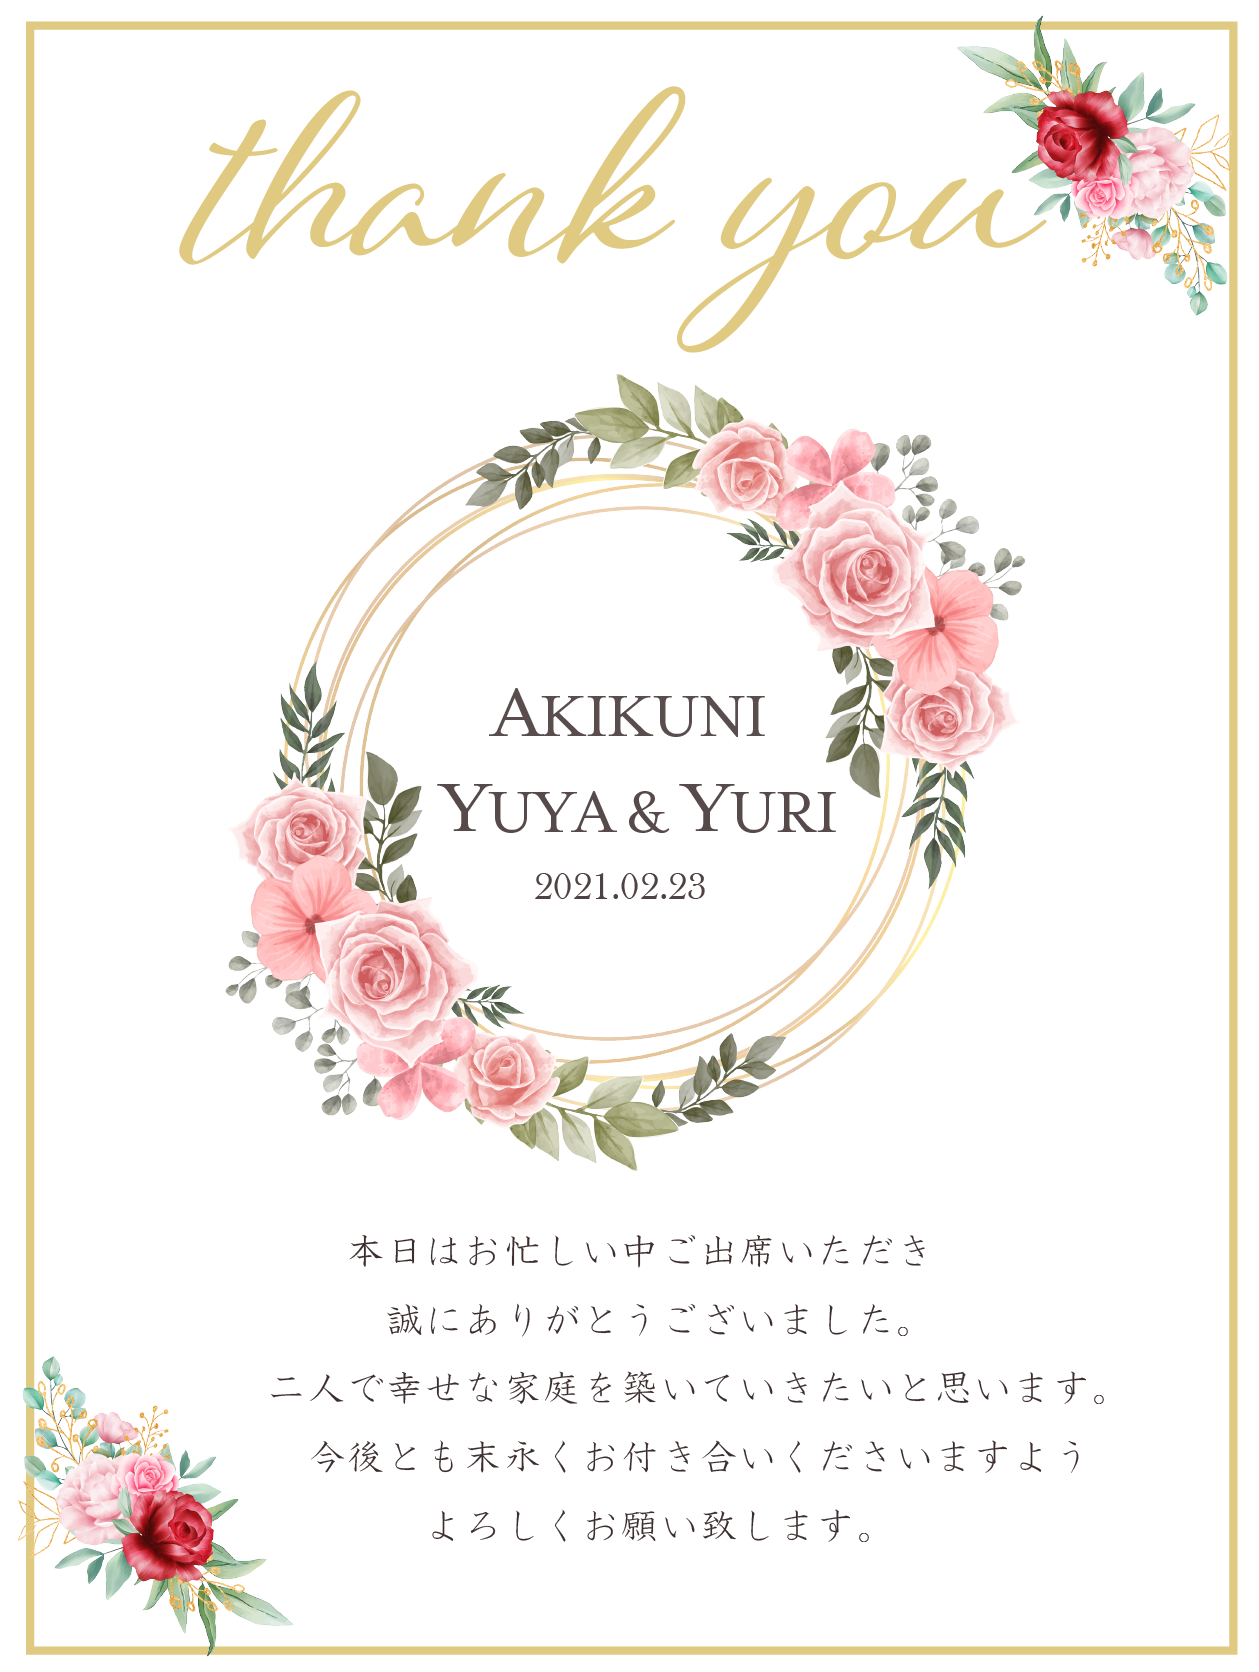
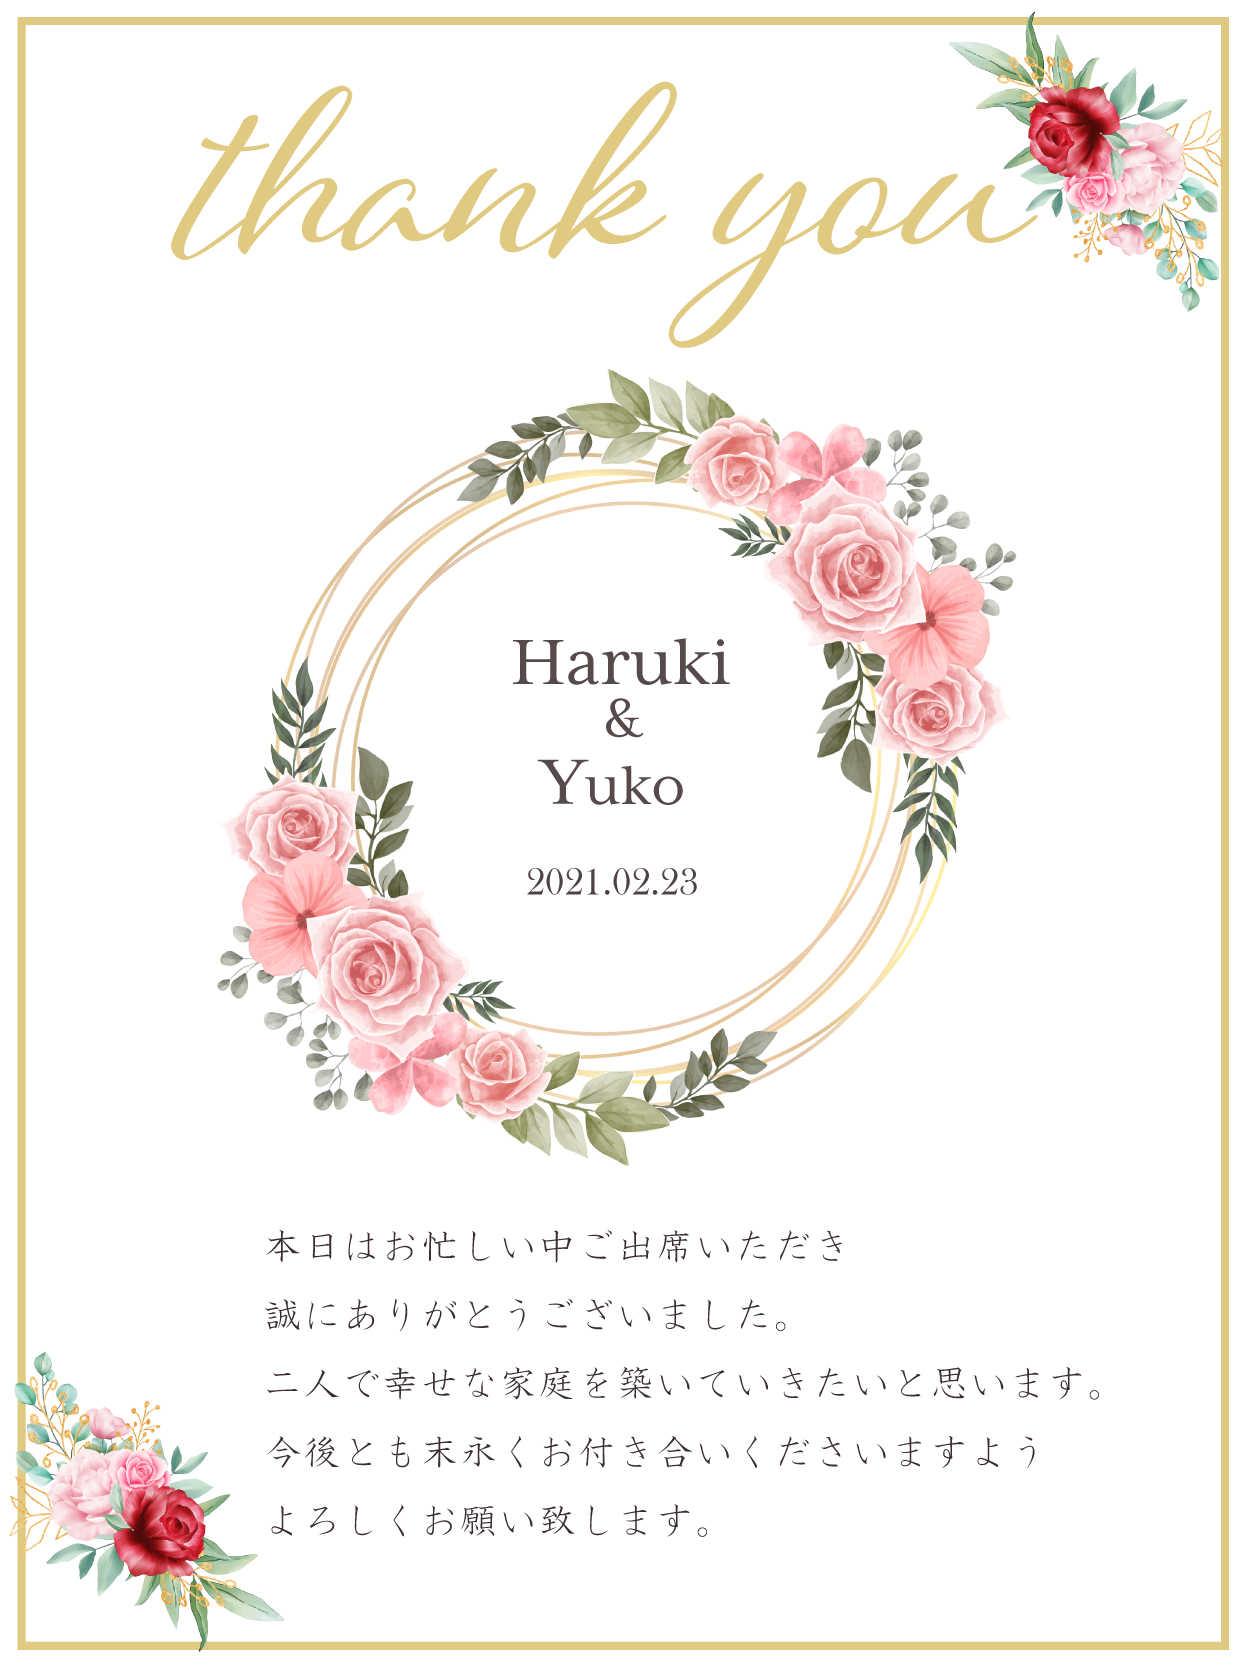
recommit

diff --git a/pages/card.vue b/pages/card.vue
@@ -6,15 +6,13 @@
                         <div>
                             <h2 class="page-title">Thanks Card</h2>
                             <p class="explan">ダウンロードボタンよりサンクスカードをお受け取りください。<br>ダウンロードが開始されない場合はカードを長押しして保存してください。</p>
-                            
                         </div>
-                    
                         <div>
                             <div class="img-wrapper">
                                 <img src="../static/thankscard.png" class="thankscard">
                             </div>
                             <div class="button pat1">
-                                <a href="https://thanks-card.netlify.app/thankscard.png" class="link" download="thankscard.png">
+                                <a href="https://thankscard-provider.netlify.app/thankscard.png" class="link" download="thankscard.png">
                                     <span class="link">
                                         Download
                                     </span>

diff --git a/pages/index.vue b/pages/index.vue
@@ -12,7 +12,7 @@
             <p class="message3">QRコードより新郎新婦からの<br>サンクスカードをお受け取り下さい。</p>
         </div>
         <div class="name">
-            <div class="names">Yuya & Yuri</div>
+            <div class="names">Haruki & Yuko</div>
         </div>
     </div>
 </template>
